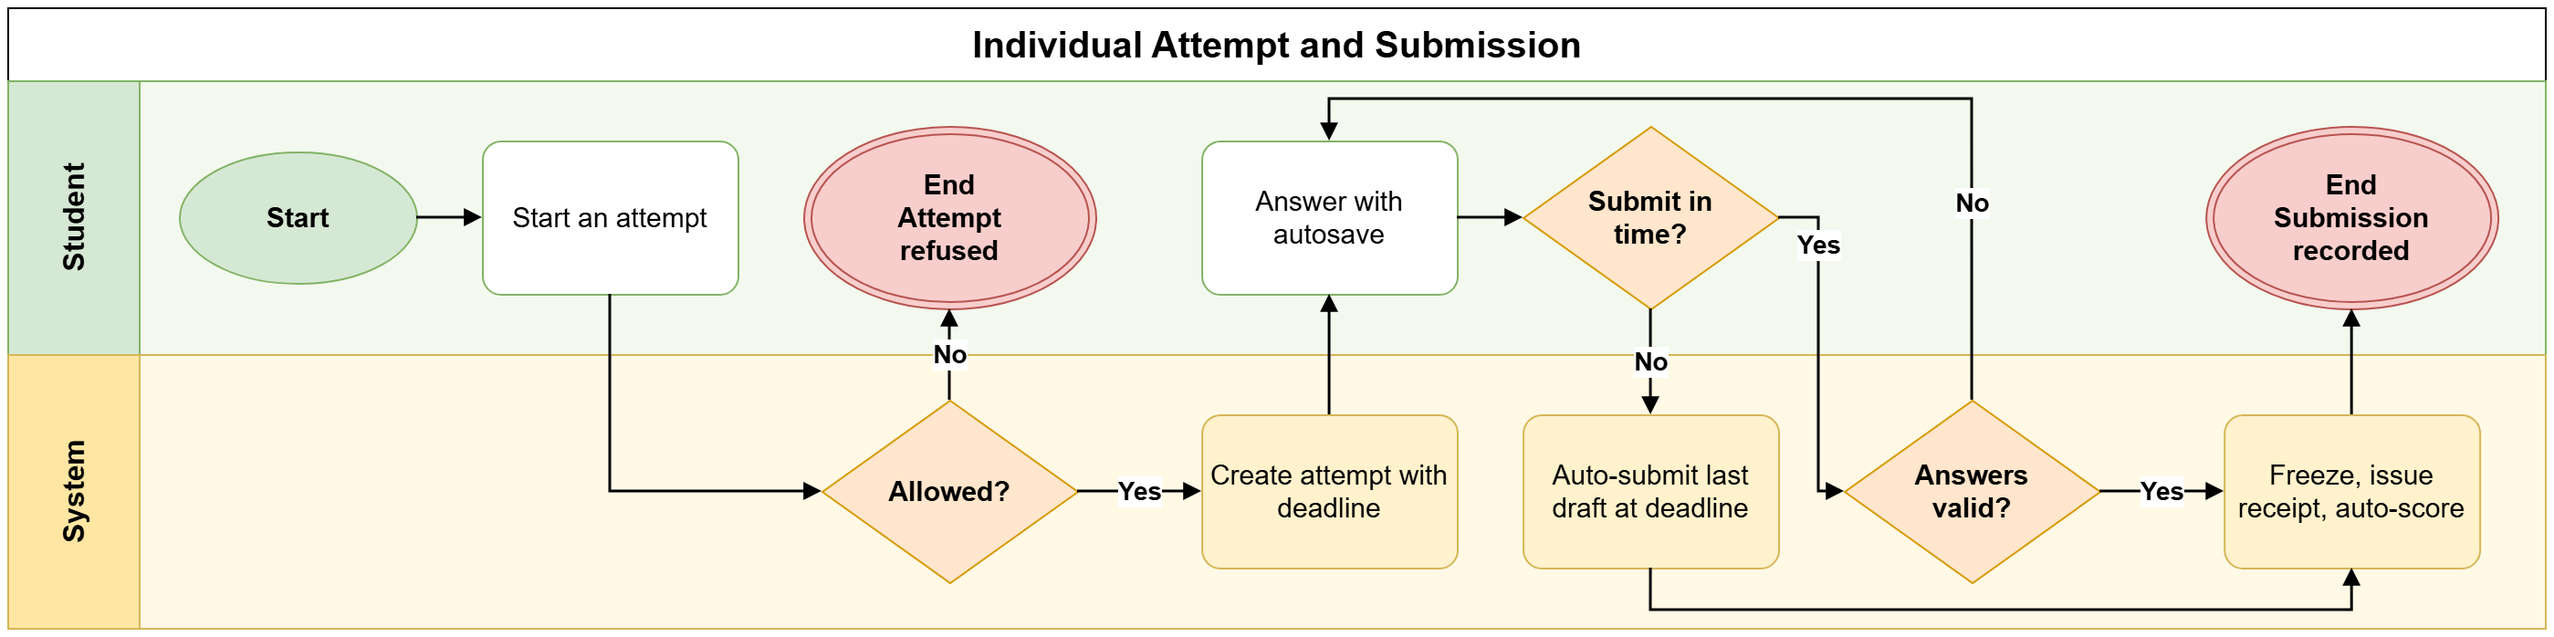
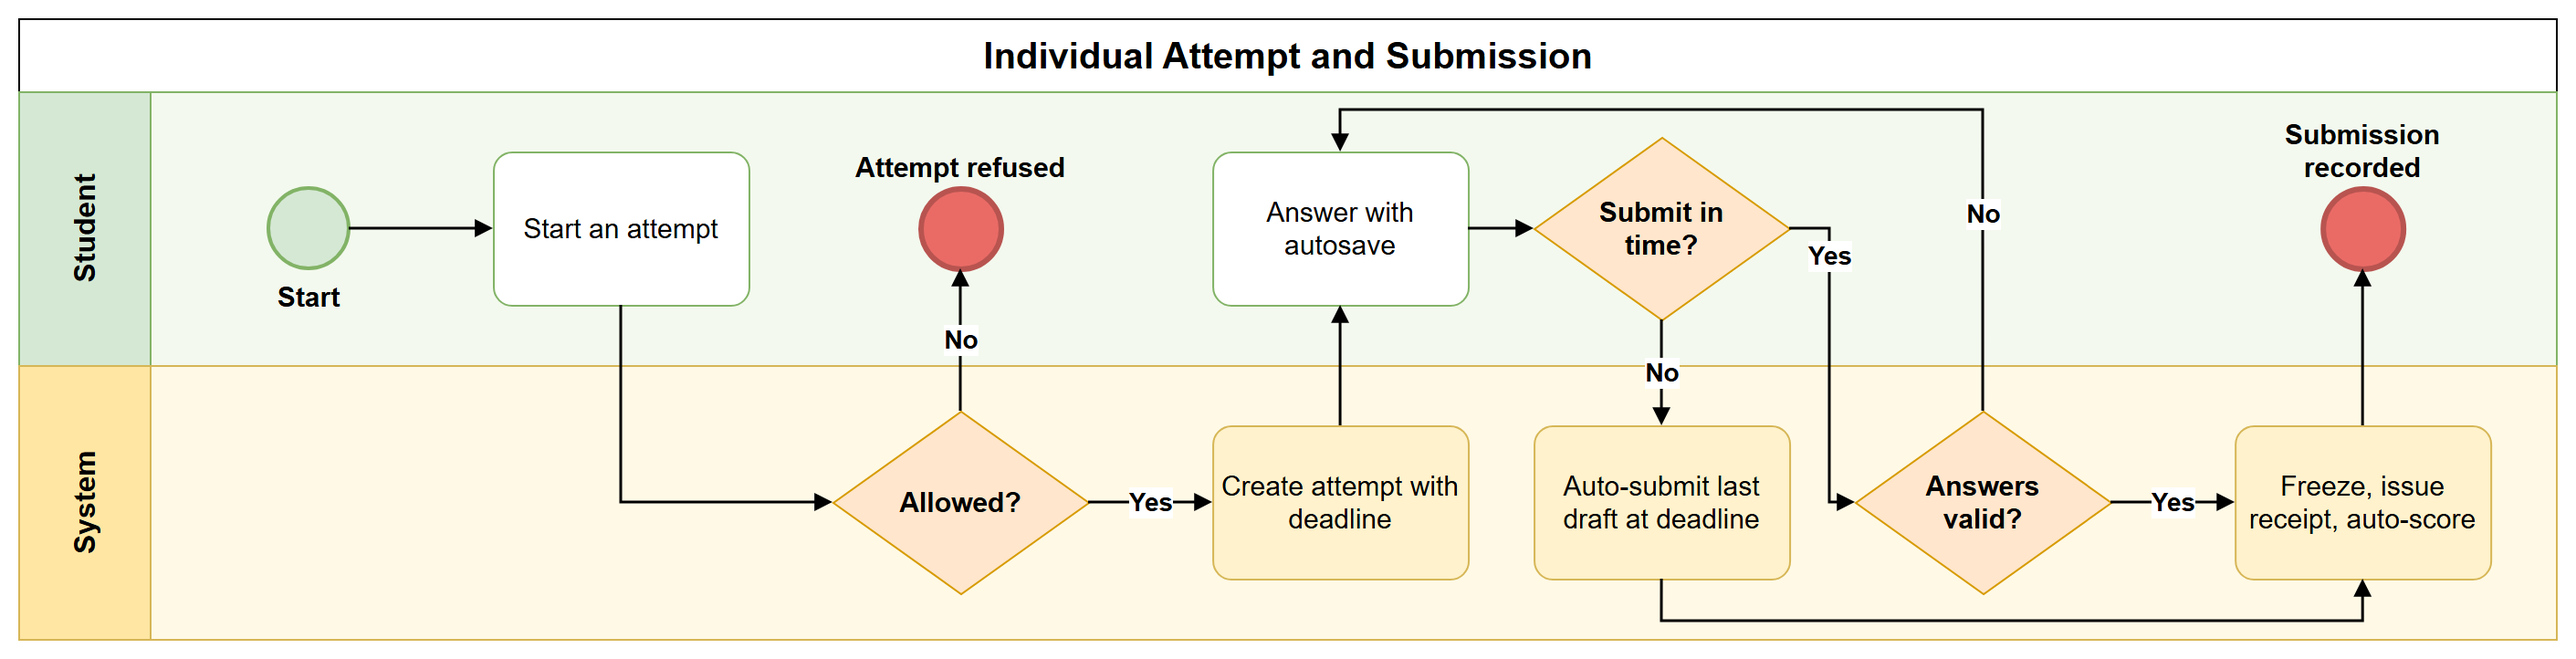
docs(business-flows): use circle start/end and align BF-01, BF-06 with SRS v6
Start/End shapes (all eight flows and the combined file)
- Replace the green Start oval and the red End double oval with
  BPMN-style 44 px circles at the same centre: green Start, solid red End.
- Drop the "Start"/"End" prefix; the trigger or outcome text now sits
  outside the circle, on a side no connector uses. Connectors and other
  shapes are unchanged.

BF-01 Subject and Class Setup, Staff Assignment and Enrollment
- Align with SRS UC 49-51, the permission matrix and R3: the Teacher
  cannot add students, so the Teacher lane is removed.
- Remove the invitation-code and roster paths: the Subject Manager (or
  Administrator) selects students and adds them to the class.
- New System decision "Students eligible?" (ACTIVE student, no other
  ACTIVE enrollment in the same subject, class has room) ends in
  "Refused with reasons" or saves the enrollment and ends in
  "Student enrolled".

BF-06 Grading and Grade Publication (GRADED)
- The AI path now reserves credit, then asks "Proposal ready?".
- No (refused for credit/limits, AI error or invalid result, or over
  five minutes; credit released) loops back to "Use AI proposal?", so
  the teacher retries or grades manually (UC 38 3.E1/4.E1).

README
- Document the circle Start/End convention.
- BF-01: swimlanes, end outcomes, end condition and text alternative.
- BF-06: text alternative for the AI failure path.
- Renumber the use-case column of all flows to the 73-UC SRS.

Exports
[…]

diff --git a/aidlc-docs/inception/main-business-flows/README.md b/aidlc-docs/inception/main-business-flows/README.md
@@ -1,6 +1,6 @@
 # Main Business Flows
 
-The eight main business flows follow the current MVP: 16 units, 40 use cases and 49 stories, five assignment types with `GRADED`/`PRACTICE` modes, roles `STUDENT`, `TEACHER`, `SUBJECT_MANAGER` and `ADMIN`. They are derived from the approved requirements (`../requirements/requirements.md`, decisions up to 2026-10-04) and the `business-logic-model.md` / `business-rules.md` of each unit under `aidlc-docs/construction/`. Learning materials have no publication step, groups belong to the class, a group document has no review stage, there is no Simulation Exam, no lesson progress tracking and no refund. Payment only buys AI credits.
+The eight main business flows follow the current MVP: 16 units, the 73 use cases of the SRS (version 6) and 49 stories, five assignment types with `GRADED`/`PRACTICE` modes, roles `STUDENT`, `TEACHER`, `SUBJECT_MANAGER` and `ADMIN`. They are derived from the approved requirements (`../requirements/requirements.md`, decisions up to 2026-10-04) and the `business-logic-model.md` / `business-rules.md` of each unit under `aidlc-docs/construction/`. Learning materials have no publication step, groups belong to the class, a group document has no review stage, there is no Simulation Exam, no lesson progress tracking and no refund. Payment only buys AI credits.
 
 They cover the core journeys of the requirements (USCN-001 to USCN-006): class setup and enrollment, learning materials for AI authoring, assignment publication, individual and group submission, teacher grading, AI practice grading and AI credit purchase. Supporting flows (account activation and sign-in, material viewing, class groups and leader change, AI credit usage, notifications, reports and statistics) are not drawn as BF; their rules are in the unit designs (U01, U04, U05, U07, U12, U13, U16).
 
@@ -8,14 +8,14 @@ This directory contains one eight-page draw.io file, eight individual draw.io fi
 
 | ID | Business flow | Swimlanes | End outcomes | Use cases | Units |
 |---|---|---|---|---|---|
-| BF-01 | Subject and Class Setup, Staff Assignment and Enrollment | Administrator, Subject Manager, Teacher, Student, System | Generic invalid-code message; Enrolled | UC 8, 9, 10 | U04 |
-| BF-02 | Learning Material Upload and Scanning | Subject Manager or Teacher, System | Upload rejected; NO_TEXT or NO_CAPTION; BUSY or NO_CREDIT; FAILED; Indexed | UC 11 | U03, U05, U07, U13 |
-| BF-03 | Assignment Authoring, Review and Publication | Teacher, System, Student | Publication refused; Assignment visible to students | UC 20, 21, 23–28 | U06, U08, U09, U10, U12, U13 |
-| BF-04 | Individual Attempt and Submission | Student, System | Attempt refused; Submission recorded | UC 29, 30, 31 | U08, U09, U11, U13 |
+| BF-01 | Subject and Class Setup, Staff Assignment and Enrollment | Administrator, Subject Manager, Student, System | Refused with reasons; Enrolled | UC 49, 50, 51, 65 | U04 |
+| BF-02 | Learning Material Upload and Scanning | Subject Manager or Teacher, System | Upload rejected; NO_TEXT or NO_CAPTION; BUSY or NO_CREDIT; FAILED; Indexed | UC 34, 55 | U03, U05, U07, U13 |
+| BF-03 | Assignment Authoring, Review and Publication | Teacher, System, Student | Publication refused; Assignment visible to students | UC 35, 42–46 | U06, U08, U09, U10, U12, U13 |
+| BF-04 | Individual Attempt and Submission | Student, System | Attempt refused; Submission recorded | UC 20, 24–26 | U08, U09, U11, U13 |
 | BF-05 | Group Document Collaboration and Submission | Group Member, Group Leader, System | Group submission recorded | UC 16, 27 | U12, U14 |
-| BF-06 | Grading and Grade Publication (GRADED) | Teacher, System, Student | Student sees grade and feedback | UC 17, 32–35, 40 | U13, U15 |
-| BF-07 | Practice Result and Grade with AI | Student, System | Practice result shown; Saved, not AI-graded; Refused or not enough credit; Error with credit released; AI practice feedback shown | UC 30, 31, 40 | U11, U13, U07 |
-| BF-08 | AI Credit Purchase | User, System, PayOS | Payment FAILED; Rejected; Expired, no credit; Credits added | UC 37 | U07 |
+| BF-06 | Grading and Grade Publication (GRADED) | Teacher, System, Student | Student sees grade and feedback | UC 21, 28, 37–39 | U13, U15 |
+| BF-07 | Practice Result and Grade with AI | Student, System | Practice result shown; Saved, not AI-graded; Refused or not enough credit; Error with credit released; AI practice feedback shown | UC 20, 24–26, 29 | U11, U13, U07 |
+| BF-08 | AI Credit Purchase | User, System, PayOS | Payment FAILED; Rejected; Expired, no credit; Credits added | UC 9–11 | U07 |
 
 ## Flow details
 
@@ -23,9 +23,9 @@ This directory contains one eight-page draw.io file, eight individual draw.io fi
 
 **Trigger**: An administrator creates a subject and assigns its Subject Manager.
 
-**End condition**: The student is enrolled in the open class, or receives a generic invalid-code message.
+**End condition**: The student is enrolled in the open class, or an ineligible student is refused with a reason.
 
-**Text alternative**: Only the administrator creates a subject and assigns one Subject Manager, who must hold the `SUBJECT_MANAGER` role and not be `DISABLED`. The subject's Subject Manager (or the administrator) creates a `DRAFT` class in an `ACTIVE` subject and assigns exactly one primary teacher with the `TEACHER` or `SUBJECT_MANAGER` role. Invalid input loops back for correction, and each save is audited. The class teacher (or the administrator or the Subject Manager) opens the class, which needs a teacher and an `ACTIVE` subject, and manages the invite code. Students are added by search, pasted emails or a one-column CSV of up to 200 rows; each row is checked separately and valid rows are enrolled. A student can also self-enroll with an invite code; the backend checks the attempt limit, that the code is enabled and unexpired, that the class is `OPEN` and that the caller is a student. An invalid code gets a generic message that reveals nothing about the class. Each student is enrolled once as `ACTIVE`, the enrollment is audited, and when the class is `OPEN` the `enrollment.activated` event leads to an in-app notification and an email.
+**Text alternative**: Only the administrator creates a subject and assigns one Subject Manager, who must hold the `SUBJECT_MANAGER` role and not be `DISABLED`. The subject's Subject Manager (or the administrator) creates a `DRAFT` class in an `ACTIVE` subject and assigns exactly one primary teacher with the `TEACHER` or `SUBJECT_MANAGER` role (UC 49, 50). Invalid input loops back for correction, and each save is audited. A class can open only when its subject is `ACTIVE` and a primary teacher is assigned. The Subject Manager (or the administrator) selects students and adds them to the class (UC 51); a teacher cannot add students, and there is no invitation code or self-enrollment. The backend checks each selected student separately: the account must be an `ACTIVE` student who has no other `ACTIVE` enrollment in a non-archived class of the same subject, and the class must have room. Ineligible students are refused with a reason; eligible students are enrolled once as `ACTIVE`, the enrollment is audited, and when the class is `OPEN` the student receives an in-app notification and an email.
 
 ### BF-02 Learning Material Upload and Scanning
 
@@ -65,7 +65,7 @@ This directory contains one eight-page draw.io file, eight individual draw.io fi
 
 **End condition**: The grade is published and the student sees the score with feedback.
 
-**Text alternative**: A `PENDING` evaluation is created for the last submitted attempt, or for the group document plus one per member. Quiz is scored by its answer key and Code Lab by all Judge0 tests; a sandbox error keeps the grade `PENDING`. The auto score is saved as `DRAFT`, or is `PUBLISHED` at once when instant results are on. For other work the teacher opens the Grading Queue and Workspace. The teacher can ask for an AI proposal for one submission or a selected batch: the backend checks the AI switch and caps and reserves the teacher's credit, and Gemini proposes a rubric checklist, comments and evidence. An error, or no result within 5 minutes, releases the credit and the teacher grades manually. The teacher ticks the rubric checklist per question or part, prefilled when a proposal is ready; a score that differs from the proposal needs no reason. For a group document the score is the sum of the parts, and each member's score starts at the document score and can be changed manually with an optional reason. Overriding an auto score, or changing a finalized or published grade, requires a reason. The teacher saves a `DRAFT`, then finalizes one or many grades; history and audit are kept. Publishing, one by one or for the selected finalized grades, sets `PUBLISHED` and emits `grade.published`. The student sees "x / total" and the feedback. A group resubmission returns the evaluations to `PENDING` and keeps earlier scores in the history.
+**Text alternative**: A `PENDING` evaluation is created for the last submitted attempt, or for the group document plus one per member. Quiz is scored by its answer key and Code Lab by all Judge0 tests; a sandbox error keeps the grade `PENDING`. The auto score is saved as `DRAFT`, or is `PUBLISHED` at once when instant results are on. For other work the teacher opens the Grading Queue and Workspace. The teacher can ask for an AI proposal for one submission or a selected batch: the backend checks the AI switch and caps and reserves the teacher's credit, and Gemini proposes a rubric checklist, comments and evidence. When the switch, caps or credit refuse the request, the AI returns an error or an invalid result, or no result arrives within 5 minutes, the reserved credit is released (nothing is charged, late output is ignored) and the flow returns to the teacher's choice: request the proposal again or grade manually. The teacher ticks the rubric checklist per question or part, prefilled when a proposal is ready; a score that differs from the proposal needs no reason. For a group document the score is the sum of the parts, and each member's score starts at the document score and can be changed manually with an optional reason. Overriding an auto score, or changing a finalized or published grade, requires a reason. The teacher saves a `DRAFT`, then finalizes one or many grades; history and audit are kept. Publishing, one by one or for the selected finalized grades, sets `PUBLISHED` and emits `grade.published`. The student sees "x / total" and the feedback. A group resubmission returns the evaluations to `PENDING` and keeps earlier scores in the history.
 
 ### BF-07 Practice Result and Grade with AI
 
@@ -87,7 +87,7 @@ This directory contains one eight-page draw.io file, eight individual draw.io fi
 
 - Each page shows one pool named after the business flow, with horizontal lanes and a left-to-right flow. Lanes show the main actors only, one lane per actor: the people involved and one **System** lane. When several roles may perform a step, the lane shows the usual actor and the text alternative names the others. The System lane covers everything inside the platform and the services it calls on its own (backend, worker, PostgreSQL, Redis, RabbitMQ, Google Drive, Gemini, YouTube, Judge0, SMTP). PayOS keeps its own lane in BF-08 because the user pays on the PayOS checkout.
 - Lane colors: green for people, yellow for the System, purple for PayOS.
-- Every End shape states its business outcome, and every decision branch is labelled. A lane can hold a second Start when a scheduled job or another actor starts part of the same flow; a Start in the System lane marks a system trigger.
+- Start and End are BPMN-style circles: Start is a green circle and End is a red circle, with the trigger or business outcome written next to the circle. Every End states its business outcome, and every decision branch is labelled. A lane can hold a second Start when a scheduled job or another actor starts part of the same flow; a Start in the System lane marks a system trigger.
 - Connectors have fixed exit and entry points and never pass through a shape, overlap or cross another connector. Loop-backs and bypass routes run along the top or bottom edge of a lane.
 - To keep each flow compact, a check and its decision are drawn as one diamond (for example "File valid?"); the checked conditions are listed in the text alternative.
 - Terminology follows the current catalog: Student, Teacher, Subject Manager, Administrator.

diff --git a/aidlc-docs/audit.md b/aidlc-docs/audit.md
@@ -3715,3 +3715,37 @@ kiểm tra bản này xem đã đúng chưa"
 **Context**: User-authorized commit on the current branch. No push or pgvector-removal change requested for this commit. Existing implementation checkpoints unchanged; runtime checks N/A, enabled documentation constraints retained and disabled Property-Based Testing skipped.
 
 ---
+
+## Main Business Flows - Circle Start and End
+**Timestamp**: 2026-10-09T06:45:00Z
+**User Input**: "vẽ lại business flow (tôi muốn bắt đầu và kết thúc phải là hình tròn như trong ảnh) chứ không phải như ảnh 2"
+**AI Response**: "Replaced every Start (green oval) and End (red double oval) in the eight individual draw.io files and the combined file with 44 px BPMN-style circles at the same centre: Start is green, End is solid red. The 'Start'/'End' prefix was removed from the labels and the trigger/outcome text was moved outside the circle, on a side that no connector uses. Connectors and other shapes are unchanged. Re-rendered the eight PNG exports at 2x with the diagrams.net viewer and checked them visually; added a note about the shapes to the README."
+**Context**: Supplementary business flow documentation update; no workflow stage change, no application code changed.
+
+---
+
+## Main Business Flows - Check Against Updated Reports 1-3
+**Timestamp**: 2026-10-09T07:20:00Z
+**User Input**: "@\"D:\Download\Report-1_Project Introduction (1).docx\" @\"D:\Download\Report-2_Project Management Plan (1).docx\" @\"D:\Download\Report-3_Software Requirement Specification (6).docx\"
+đây là tài liệu đã được cập nhật, kiểm tra xem BF hiện tại đã đúng chưa"
+**AI Response**: "Checked BF-01..BF-08 against SRS v6 (trigger/end conditions, UC 01-73, permission matrix, data business rules, BR01-BR30, UC specifications) and Reports 1-2. BF-02, BF-04, BF-05, BF-07, BF-08 match. BF-01 conflicts: the Teacher adds students (roster or invite code), but SRS UC 51 and the permission matrix give enrollment to the Subject Manager/Administrator and deny it to the Teacher; the invite-code path has no UC in the 73-UC list although Report 1, Report 2, SRS data rule 'One active class per subject' and the BF-01 end condition still mention it. Minor gaps: BF-06 omits the AI credit/availability refusal and failure path of UC 38 and sends deterministic scores through teacher finalization although the Evaluation lifecycle allows immediate publication; BF-03 does not show Code Lab sample verification explicitly. The SRS still embeds the previous oval-style BF images. Asked the user how to resolve the invite-code question before editing."
+**Context**: Supplementary business flow review; no files other than this log changed.
+
+---
+
+## Main Business Flows - BF-01 and BF-06 Correction
+**Timestamp**: 2026-10-09T07:40:00Z
+**User Input**: "BF-01: xử lý việc thêm sinh viên và mã mời thế nào?"="Bỏ mã mời (Recommended)", "Có sửa luôn các điểm nhỏ ở BF-06/BF-03 không?"="Sửa BF-06 (Recommended)"
+**AI Response**: "BF-01 redrawn per SRS v6 UC 49-51, the permission matrix and R3: Teacher lane removed; the Subject Manager (or Administrator) creates the class, assigns the teacher and selects students; System decision 'Students eligible?' leads to End 'Refused with reasons' or to saving the enrollment and End 'Student enrolled'. Invitation code and self-enrollment removed. BF-06: the AI path now reserves credit, then 'Proposal ready?'; No (refused, failed, invalid or over 5 minutes, credit released) loops back to 'Use AI proposal?' so the teacher retries or grades manually (UC 38 3.E1/4.E1). BF-03 unchanged. Updated both pages in the individual and combined draw.io files, re-rendered BF-01/BF-06 PNGs and checked them visually (no crossing connectors). README: BF-01 swimlanes, end outcomes, end condition and text alternative; BF-06 text alternative; use-case column renumbered to the 73-UC SRS. Not changed: the SRS/Report 1/Report 2 .docx files, which still mention invitation-code enrollment and the old BF-01 end condition and embed the old BF images."
+**Context**: Supplementary business flow update; no workflow stage change, no application code changed.
+
+---
+
+## SRS Report 3 (version 7) Review
+**Timestamp**: 2026-10-09T08:30:00Z
+**User Input**: "@\"D:\Download\Report-3_Software Requirement Specification (7).docx\"
+kiểm tra xem bản report3 này đã đúng chưa, được bao nhiêu điểm trên 10 và gửi tôi các điểm cần bổ sung/cải thiện"
+**AI Response**: "Reviewed SRS v7 end to end. Text is identical to v6; only images changed and all eight BF images now match the current exports. Score given: about 7/10. Main findings: table of contents still shows template headings; BF-01 end condition and the 'One active class per subject' data rule still mention invitation codes; contradictions between entity descriptions and UC/BR (Credit Package seeded vs Admin-managed, Announcement not editable vs UC 36/BR27, BR19 deployment-configured monthly grant vs UC 70-71, fixed 50 MB vs configurable upload limits); ERD lacks Payment, Enrollment, Audit Log, Group Section, Leader Change Request, Comment and credit ledger, has the typo 'Version Linage' and a placeholder link line; only 10 of 73 UCs have specifications; missing figure captions and acronyms; implementation jargon in jobs and Other Requirements; inconsistent assignment-type terms and untranslated Vietnamese labels; no enrollment-refusal message."
+**Context**: Supplementary documentation review; no files other than this log changed.
+
+---
